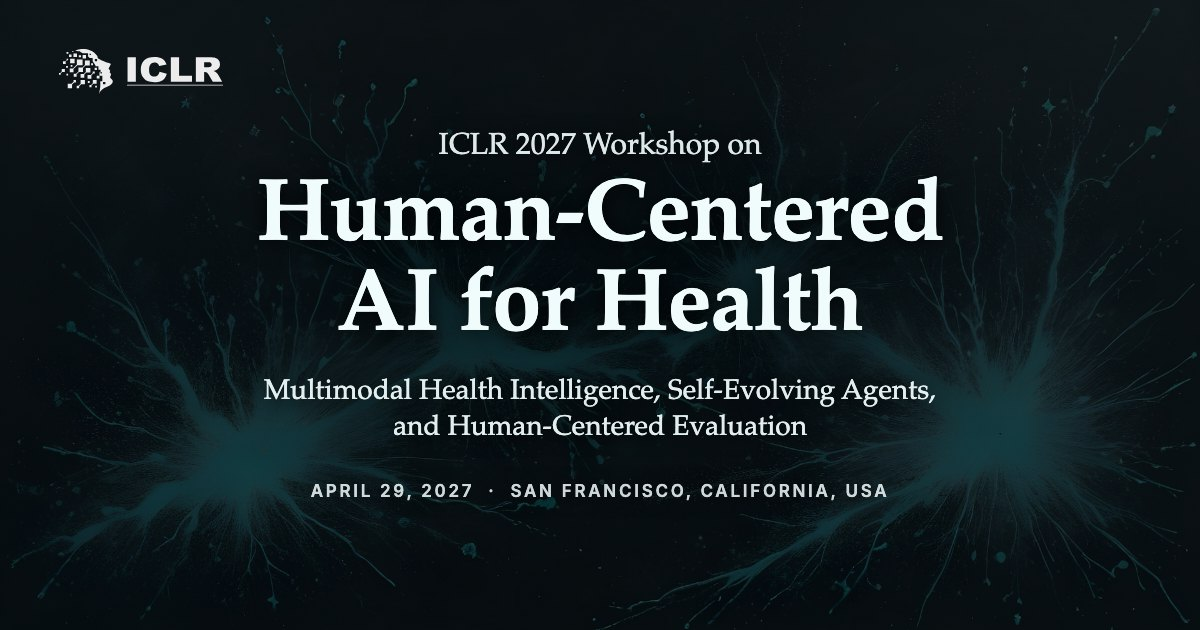
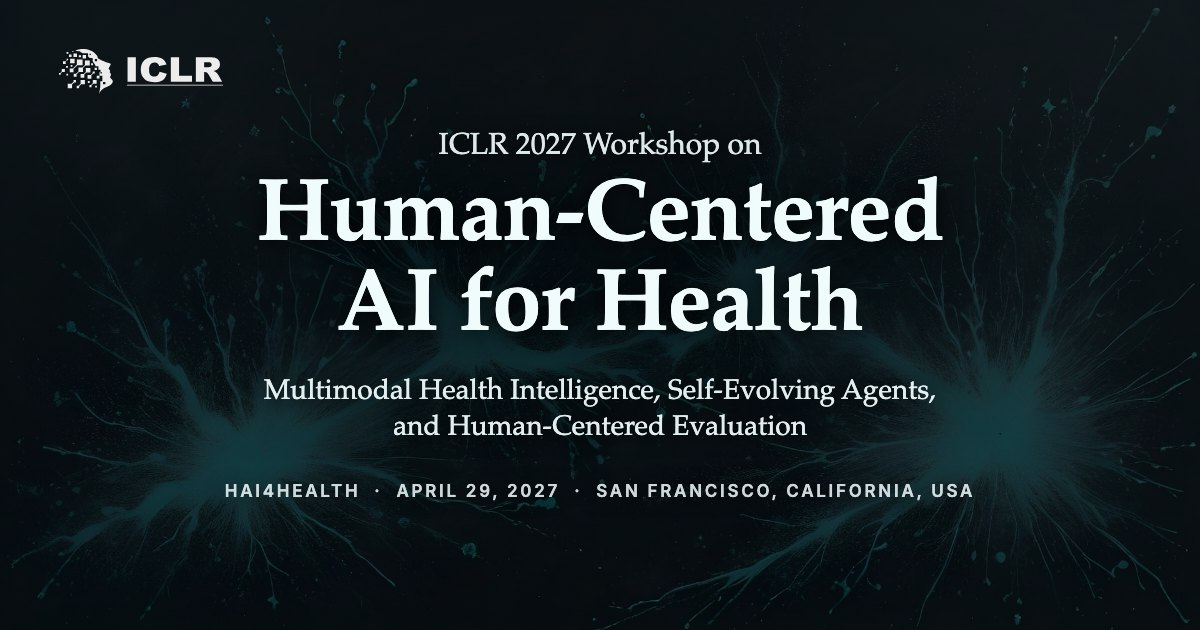
Use the HAI4Health handle in the tab title, footer, social card, and README

Changed region(s): [[0.185, 0.754, 0.8017, 0.8143]]

diff --git a/index.html b/index.html
@@ -4,7 +4,7 @@
 <head>
   <meta charset="UTF-8" />
   <meta name="viewport" content="width=device-width, initial-scale=1.0" />
-  <title>Human-Centered AI for Health @ ICLR 2027</title>
+  <title>HAI4Health @ ICLR 2027</title>
   <meta name="title" content="Human-Centered AI for Health @ ICLR 2027">
   <meta name="description" content="ICLR 2027 Workshop on Human-Centered AI for Health: multimodal health intelligence, self-evolving agents, and human-centered evaluation. April 29, 2027, San Francisco, California, USA.">
   <!-- Open Graph / Facebook -->
@@ -431,7 +431,7 @@
         <div class="site-footer-brand">
           <a href="https://iclr.cc/Conferences/2027" target="_blank" rel="noopener noreferrer" aria-label="ICLR 2027"><img src="images/iclr.svg" alt="ICLR 2027"></a>
           <strong>Human-Centered AI for Health</strong>
-          <span class="site-footer-meta"><span>ICLR 2027 Workshop</span><span>April 29, 2027</span><span>San Francisco</span></span>
+          <span class="site-footer-meta"><span>HAI4Health</span><span>ICLR 2027 Workshop</span><span>April 29, 2027</span><span>San Francisco</span></span>
         </div>
         <div class="site-footer-col">
           <strong>Links</strong>
@@ -460,7 +460,7 @@
         </div>
       </div>
       <div class="site-footer-bottom">
-        <span>&copy; 2027 Human-Centered AI for Health Workshop. All rights reserved.</span>
+        <span>&copy; 2027 HAI4Health. All rights reserved.</span>
         <span>Site design adapted from <a href="https://genai4health.github.io/2026-NeurIPS/" target="_blank" rel="noopener noreferrer">GenAI4Health</a>.</span>
       </div>
     </div>

diff --git a/README.md b/README.md
@@ -1,4 +1,4 @@
-# Human-Centered AI for Health @ ICLR 2027
+# HAI4Health: Human-Centered AI for Health @ ICLR 2027
 
 Website for the ICLR 2027 workshop **Human-Centered AI for Health**.
 Live site: https://hai4health.github.io/iclr2027/
